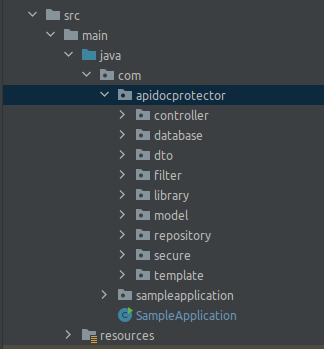
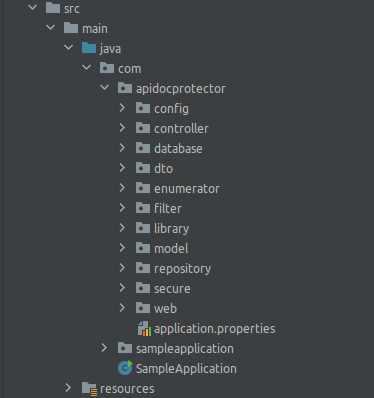
update: [stabled] [done] Documentation updated to release 1.0.3

Changed region(s): [[0.0, 0.0, 1.0, 1.0], [0.0617, 0.0, 0.0926, 0.0287]]

diff --git a/README.md b/README.md
@@ -1,14 +1,17 @@
 # APIDOC PROTECTOR
-A simple project to API document protect
+A simple project to protect documentation from OPENAPI
 
 # Overview
 
-- Release: 1.0.2
+- Release: 1.0.3
+- License: MIT
+- Coding: Open Source Code
+- Language: Java
 
 ![img.png](./midias/apidoc-protector-login-v1.png)
 
 When APIDOC PROTECTOR is installed in the application it catches the requests into endpoints refers to currently manager
-documentation, as example in the Swagger, when is requested to http://localhost:31303/swagger-ui/index.html this request
+documentation, as example the Swagger, when is requested to http://localhost:31303/swagger-ui/index.html this request
 is intercepted and is required a login by username and password.
 <br />
 This can be look in ApiDocProtectorSwagger that is placed in the apidocprotector path (package)
@@ -40,7 +43,9 @@ Below is the diagram flow to summarize as the APIDOC PROTECTOR work.
 * Rest Template
 * Swagger (OpenAPI)
 * Thymeleaf
-* Crypto/MD5
+* Crypto
+* MD5
+* Custom Encrypt
 
 # Environment Details
 <pre>
@@ -56,33 +61,31 @@ Java(TM) SE Runtime Environment (build 1.8.0_212-b10)
 Java HotSpot(TM) 64-Bit Server VM (build 25.212-b10, mixed mode)
 </pre>
 
-# Maven Commands (jar generate)
+# Maven Commands Helper (jar generate)
 
 1. mvn clean
-2. mvn clean install
-3. mvn clean compile assembly:single
-4. mvn clean package spring-boot:repackage
-5. mvn package
+2. mvn clean install 
+3. mvn package
 
 # List of Documentation Managers
 
-* OpenAPI with Swagger
+- OpenAPI with Swagger
 
 > The openAPI with Swagger-UI is available to query and help understand the application by REST API
 
-* http://localhost:31303/swagger-ui/protector
+http://localhost:31303/swagger-ui/protector
 
-* OpenAPI with Adobe AEM
+- OpenAPI with Adobe AEM (Not available yet)
 
 > The openAPI with Adobe-AEM is available to query and help understand the application by REST API
 
-* http://localhost:31303/adobe-aem/protector
+http://localhost:31303/adobe-aem/protector
 
-* OpenAPI with Authentiq API
+* OpenAPI with Authentiq API (Not available yet)
 
 > The openAPI with Authentiq API is available to query and help understand the application by REST API
 
-* http://localhost:31303/authentiq-api/protector
+http://localhost:31303/authentiq-api/protector
 
 # Workflow Code Details
 
@@ -157,6 +160,9 @@ This process should be used as explained in this session, e.g., an URL + Token s
 
 # Usage
 
+> IMPORTANT NOTE: if you cannot modify your project's package structure by setting the root path to "com" and placing 
+> your main file "main" in this root path "com", it will not be possible to use APIDOC PROTECTOR.
+
 Set up the pom.xml with the dependencies below
 
 <code>
@@ -221,16 +227,35 @@ Set up the pom.xml with the dependencies below
 			<version>5.3.15</version>
 		</dependency>
 
+		<!--OAUTH2-->
+		<dependency>
+			<groupId>org.springframework.security.oauth.boot</groupId>
+			<artifactId>spring-security-oauth2-autoconfigure</artifactId>
+			<version>2.0.1.RELEASE</version>
+		</dependency>
+		<dependency>
+			<groupId>org.springframework.security</groupId>
+			<artifactId>spring-security-core</artifactId>
+		</dependency>
+		<dependency>
+			<groupId>org.springframework.cloud</groupId>
+			<artifactId>spring-cloud-security</artifactId>
+		</dependency>
+		<dependency>
+			<groupId>org.springframework.boot</groupId>
+			<artifactId>spring-boot-starter-security</artifactId>
+		</dependency>
+
 </code>
 
-In this release 1.0.2, the unique way to use the APIDOC-PROTECTOR it that showed below, please pay attention when you
+In this release 1.0.3, the unique way to use the APIDOC-PROTECTOR it that showed below, please pay attention when you
 implement this solution in your application to avoid mistakes or forgot anything.
 
-Let's start...
+Let's get start...
 
 Please, follow the instructions below to install APIDOC PROTECTOR in your application.
 
-- Firstly, access the package com in your application
+- Firstly, access the package "com" in your application
 
 <pre>
 [Example]
@@ -243,10 +268,10 @@ user@host$: cd /home/user/sample-project/src/main/java/com
 user@host$: git clone https://github.com/huntercodexs/apidocprotector.git
 </pre>
 
-- Get a current release: 1.0.2
+- Get a current release: 1.0.3
 
 <pre>
-user@host$: git checkout release_1.0.2
+user@host$: git checkout release_1.0.3
 </pre>
 
 - Remove unnecessary files
@@ -260,9 +285,13 @@ Until now, we should have the project structure as below:
 
 ![img.png](./midias/apidocprotector-initial-structure.png)
 
-- Copy the template files html from src/main/java/com/apidocprotector/templates to src/main/resources/templates as showed below
+- Copy the template files html from src/main/java/com/apidocprotector/web/_templates to src/main/resources/templates as showed below
 
 ![img.png](./midias/apidocprotector-templates-files.png)
+
+- Copy the static files css and js from src/main/java/com/apidocprotector/web/_static to src/main/resources/static as showed below
+
+![img.png](./midias/apidocprotector-static-files.png)
 
 - Now you can configure the application.properties file of your project, as showed below:
 
@@ -285,14 +314,18 @@ springdoc.model-and-view-allowed=true
 
 ## APIDOC PROTECTOR
 #----------------------------------------------------------------------------------------------------
-#true, false
-apidocprotector.enabled=false
+#true(default), false
+apidocprotector.enabled=true
+#true, false(default)
+apidocprotector.role=true
+#light(default), dark, gamer, modern
+apidocprotector.theme=gamer
 #localhost, 192.168.0.17, app.domain.com
 apidocprotector.server-name=192.168.0.203
 #swagger, adobe, authentiq
 apidocprotector.type=swagger
-#md5, bcrypt
-apidocprotector.data.crypt.type=md5
+#md5(default), bcrypt, custom
+apidocprotector.data.crypt.type=custom
 #true, false
 apidocprotector.url.show=true
 #time to expire session (in minutes): 0,1,3,5,6,7, .... 15,60,148, etc...
@@ -337,12 +370,27 @@ spring.mail.properties.mail.smtp.timeout=5000
 spring.mail.properties.mail.smtp.writetimeout=5000
 spring.mail.properties.mail.smtp.socketFactory.port=31025
 spring.mail.properties.mail.smtp.socketFactory.class=javax.net.ssl.SSLSocketFactory
+
+## OAUTH2
+#----------------------------------------------------------------------------------------------------
+#true(default), false
+oauth.enabled=true
+#custom
+oauth.server.custom.endpoint=/api/rest/v1/oauth
+#use: (db|file)
+oauth.basic-auth.credentials=db
+#user details
+oauth.basic-auth.username=OAUTH2DEMO_USER
+oauth.basic-auth.password=1234567890
+oauth.basic-auth.role=1
 </pre>
+
+> See more in the application.properties file placed in resources path from this project
 
 # Properties File
 
-> NOTE: you can personlize the all options/features to get more confidente and security in the application implementation,
-> main in the custome.uri path
+> NOTE: you can personalize the all options/features to get more confidente and security in the application implementation,
+> main in the custom.uri path
 
 There is a many settings tha can be made in the application.properties file, but we can talk about the options on
 
@@ -392,7 +440,6 @@ There is a many settings tha can be made in the application.properties file, but
         - URI to password, default is /doc-protect/password
     - apidocprotector.custom.uri-password-recovery:
         - URI to password recovery, default is /doc-protect/password/recovery
-
 
 - APIDOC PROTECTOR (JAVA MAIL SENDER)
     - spring.mail.host:
@@ -540,46 +587,75 @@ All endpoints that will be intercepted can be seen in the application.properties
 
 - OAuth2 Settings
 
+The APIDOC PROTECTOR has the Oauth2 pre configurated, and you might enable ou disable it. Below is the properties settings 
+that you should used to make this.
+
+<pre>
+oauth.enabled=true
+</pre>
+
 If your application use the OAuth2 as a security layer, can be needed to make any configurations in the scope of the
 project as showed below...
 
 <code>
 
     @Override
-    public void configure(final HttpSecurity http) throws Exception {
-       http.authorizeRequests()
+        public void configure(final HttpSecurity http) throws Exception {
+            if (oauth2Enabled) {
+                http.authorizeRequests()
 
-               /*APP SERVICES*/
-               .antMatchers("/users/delete").authenticated()
-               .antMatchers("/users/create").authenticated()
+                    /*--------- Restrict Endpoints ---------*/
 
-               /*OTHERS SERVICES*/
-               .antMatchers("/auditory/view").authenticated()
+                    /*Application*/
+                    .antMatchers(apiPrefix + "/users/**").authenticated()
 
-               /*SWAGGER*/
-               .antMatchers("/swagger/**").permitAll()
-               .antMatchers("/swagger-ui/**").permitAll()
-               .antMatchers("/api-docs/**").permitAll()
-               .antMatchers("/api-docs.yaml").permitAll()
+                    /*--------- Allowed Endpoints ----------*/
 
-               /*API-DOC-GUARD*/
-               .antMatchers("/doc-protect/**").permitAll()
-               .antMatchers("/api-doc-guard/**").permitAll()
-               .antMatchers("/api-docs-guard/**").permitAll()
-
-               /*CUSTOM*/
-               .antMatchers(custom_api_prefix+"/swagger/**").permitAll()
-               .antMatchers(custom_api_prefix+"/swagger-ui/**").permitAll()
-               .antMatchers(custom_api_prefix+"/doc-protect/**").permitAll()
-               .antMatchers(custom_api_prefix+"/api-doc-guard/**").permitAll()
-               .antMatchers(custom_api_prefix+"/api-docs-guard/**").permitAll()
-
-               /*ACTUATOR*/
-               .antMatchers("/actuator/**").permitAll().anyRequest().authenticated();
-    
-    }
+                    /*Actuator*/
+                    .antMatchers("/actuator/**").permitAll()
+                    /*ApiDoc Protector*/
+                    .antMatchers("**/doc-protect/**").permitAll()
+                    /*Application*/
+                    .antMatchers(apiPrefix + "/welcome").permitAll()
+                    /*Swagger*/
+                    .antMatchers(swaggerUiDocs).permitAll()
+                    .antMatchers(swaggerUiPath).permitAll()
+                    .antMatchers("/swagger-ui/**").permitAll()
+                    .antMatchers("/api-docs/**").permitAll()
+                    .antMatchers("/api-docs.yaml").permitAll()
+                    /*Swagger (With Prefix)*/
+                    .antMatchers(apiPrefix + "/swagger-ui/**").permitAll()
+                    .antMatchers(apiPrefix + "/api-docs/**").permitAll()
+                    .antMatchers(apiPrefix + "/api-docs.yaml").permitAll();
+            } else {
+                http.authorizeRequests().anyRequest().permitAll();
+            }
+        }
 
 </code>
+
+You can use the database.sql to charge oauht2 database, see it in path src/main/java/com/apidocprotector/config/oauth2.
+
+# Theme
+
+The APIDOC PROTECTOR has a few themes available to use, and each one can be used according the below settings
+
+<pre>
+#light(default), dark, gamer, modern
+apidocprotector.theme=gamer
+</pre>
+
+# Role
+
+Enabled or disabled this option to let available a Role field in the GENERATOR FORM
+
+> If you set this option equal true, anyone will be could create a user with a privilege's admin, 
+> so think well before allow this option
+
+<pre>
+#true, false(default)
+apidocprotector.role=true
+</pre>
 
 # Logger
 
@@ -610,3 +686,28 @@ apidocprotector.audit.enabled=true
 apidocprotector.audit.level=2
 </pre>
 
+# Customizations
+
+You can configure many features available in APIDOC PROTECTOR through the properties file, but you can also
+configure or schedule new features, for example:
+
+- themes
+    - (src/main/resources/static/apidocprotector/css/theme)
+
+- javascript features
+    - (src/main/resources/static/apidocprotector/js)
+
+- system business rules
+
+- database
+
+- authentication
+    - Oauth2 (src/main/java/com/apidocprotector/config/oauth2)
+
+- error messages and responses
+    - (src/main/java/com/apidocprotector/enumerator)
+
+- encryption of user data (password)
+    - ApiDocProtectorCustomCrypt.java (com/apidocprotector/config/crypt/ApiDocProtectorCustomCrypt.java)
+
+Check the above options in the project scope for more details
